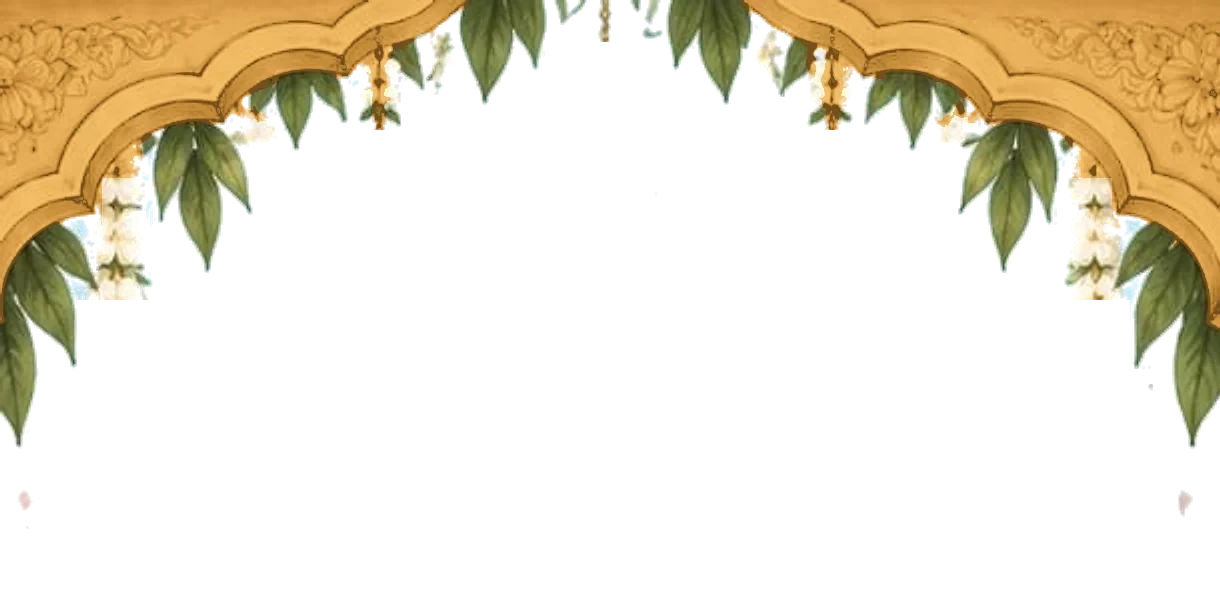
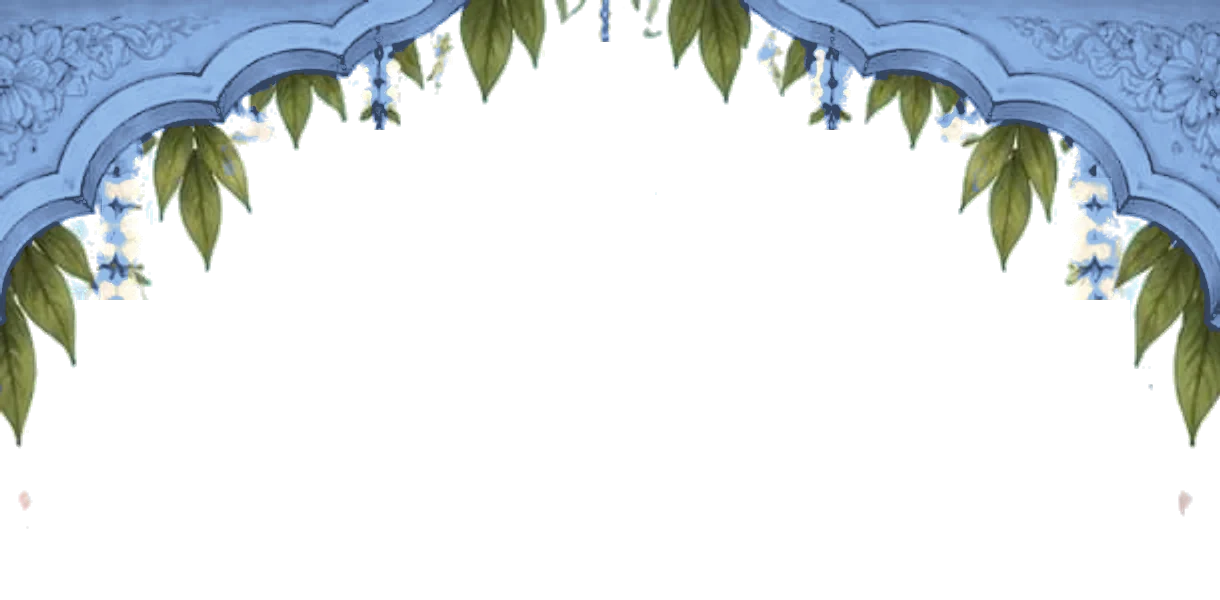
Couple: the carved arch in Mahadev's own blue
The couple section's carved arch is no longer gold: its gold is
recoloured to the blue of Mahadev's skin in the Save the Date painting.
Each gold pixel's lightness is mapped onto his skin's tones, from shadow
to highlight, so the carving keeps its depth; the leaves, jasmine and
the swaying gold bells are unchanged, and the change fades at the
edges of gold so there are no seams.

diff --git a/src/config/wedding.ts b/src/config/wedding.ts
@@ -462,8 +462,8 @@ export const wedding = {
     omSeal: "/art/om-seal.webp",
     /**
      * Section 02, made from one painting (its text and sky taken out, so the site's sky shows
-     * through): the carved arch — recoloured to the gold of Parvati's saree in the Save the Date
-     * painting — with bells and jasmine strings across the top (1220 × 600), and
+     * through): the carved arch — recoloured to Mahadev's own blue in the Save the Date painting
+     * (his skin's tones, shadow to highlight, so the carving keeps its depth) — with bells and jasmine strings across the top (1220 × 600), and
      * the scene at the foot (1220 × 1448) — palms, petals, hills, a temple by the river, a diya,
      * lotuses, and the couple offering water to the Shivling.
      */

diff --git a/src/components/sections/Couple.tsx b/src/components/sections/Couple.tsx
@@ -15,7 +15,7 @@ const TOAST_MS = 1500;
 
 /**
  * Section 02 — one screen, in the style of the couple's chosen painting, on
- * the site's own sky: a carved golden arch with gently swaying temple bells
+ * the site's own sky: a carved arch in Mahadev's blue with gently swaying temple bells
  * and jasmine strings across the top, right where the Save the Date ends; on the sky
  * below the bells, the guest's welcome — their name from the link, the
  * couple's names, the hashtag (a tap copies it), the date and the venue (a

diff --git a/README.md b/README.md
@@ -113,7 +113,7 @@ Each section has its own composition, and each hands over to the next.
 | 00 | Opening | The couple's own picture (`assets.opening`, 852 × 1846): a sunrise sky with clouds and the Himalaya, and the two hands on their own layers (cut out with the background-removal model; the sky behind them rebuilt seamlessly). Both hands start partly off the screen — Shiva's at the upper left, reaching down; the bride's at the lower right, palm up — and glide slowly toward each other (3.8s), until their fingertips all but touch; a warm gold glow between them, then it widens, a few gold motes drift outward and both hands fade together into the sky. Only once they are gone does the card rise in, as the sunrise melts away. Skip is always shown, a reload gets a quicker version, and `?opening=full` replays the full one. |
 | 01 | Save the Date | Exactly one screen (`100svh`). The card rises in piece by piece, in order of importance: "Save the Date", the names (stacked: bride, a small gold "&", groom — never cut, however long), the request, the date on one line (February · 12 · 2027) and the venue (a tap opens Google Maps directions) — 64px from the top, 12px apart, each with a soft white glow; then the painting of Mahadev blessing Maa Parvati before the snowy Himalaya, edge to edge across the foot of the screen (at least 58svh, cropped from the bottom so the crown stays in view), only its top edge fading into the sky. At the foot, on a dark-navy panel (rgba(8,24,52,.88) rising to clear): the blessing line and **View the Invitation** with a gently bobbing double arrow — a tap glides to the next section. EN / हिं switches the card to Hindi (`invitation.hindi`, remembered on the phone, shared with the switch on the couple section). Faint clouds part as the guest scrolls, the moon in Mahadev's hair glows softly, and a bell in the corner plays a soft temple dhun made in the browser — only when tapped. After 5 s of reading it glides on by itself (`invitation.autoAdvanceMs`); any touch cancels this. |
 | 01→02 | Descent | "Kailash se Mandir" (`Descent.tsx`), scrubbed by the scroll and only vertical: the Save the Date's painting, in two layers (`assets.saveTheDateLayers`), drifts up — the Himalaya slowly and a little to the left, Mahadev and Maa Parvati a little faster — and fades into mist; the blessing panel melts away; three layers of soft cloud pass across at their own speeds and a few petals fall; the couple section's arch rises 60px into place, then its scene as it comes up the screen. The sky behind is one fixed layer, so there is no line between them. On arrival the bells and the two jasmine garlands (`assets.coupleGarlands`) swing once, and the welcome comes in line by line after the arch has settled. Transform and opacity only, all inside the phone on desktop. Reduced motion: none of it — the couple section simply fades in. |
-| 02 | Couple | One screen in the style of the couple's chosen painting, on the site's own sky, starting right where the Save the Date ends (no gap): a carved arch in the gold of Parvati's saree, with jasmine strings and three temple bells that sway gently (`assets.coupleArch`, `assets.coupleBells`); on the sky below the bells, the welcome (`coupleWelcome`) — "Welcome" (स्वागतम् in Hindi), "Dear {guest}," from the link (`?guest=`, `?to=` or `?name=`, max 40 characters; without one, `guest.fallbackName`), 20px with the name in bold at 26px, "you are warmly invited" (or its Hindi), the couple's names stacked, a fine gold line, the hashtag (a tap copies it and shows "Copied"), the date on one line (12 · FEBRUARY · 2027), another gold line and the full venue as a Google Maps link — rising in one by one as the section comes into view; and at the foot (`assets.coupleScene`) palms, petals, hills, a temple by the river, a diya, lotuses and the couple offering water to the Shivling, always with at least 40px of clear sky above their heads (on a short screen they move lower). Its words follow the Save the Date's EN / हिं switch. It keeps the `#couple` id because "View the Invitation" and the auto-glide land here. |
+| 02 | Couple | One screen in the style of the couple's chosen painting, on the site's own sky, starting right where the Save the Date ends (no gap): a carved arch in Mahadev's own blue (the tones of his skin in the Save the Date painting), with jasmine strings and three temple bells that sway gently (`assets.coupleArch`, `assets.coupleBells`); on the sky below the bells, the welcome (`coupleWelcome`) — "Welcome" (स्वागतम् in Hindi), "Dear {guest}," from the link (`?guest=`, `?to=` or `?name=`, max 40 characters; without one, `guest.fallbackName`), 20px with the name in bold at 26px, "you are warmly invited" (or its Hindi), the couple's names stacked, a fine gold line, the hashtag (a tap copies it and shows "Copied"), the date on one line (12 · FEBRUARY · 2027), another gold line and the full venue as a Google Maps link — rising in one by one as the section comes into view; and at the foot (`assets.coupleScene`) palms, petals, hills, a temple by the river, a diya, lotuses and the couple offering water to the Shivling, always with at least 40px of clear sky above their heads (on a short screen they move lower). Its words follow the Save the Date's EN / हिं switch. It keeps the `#couple` id because "View the Invitation" and the auto-glide land here. |
 | — | Between sections | A ripple of the Ganga (`SectionSeparator`, 72px, edge to edge): a fine wavy line in pale blue and gold with a fainter one behind, on a soft band of the site's mist so each section flows into the next; on it a small floating ornament — lotus (its petals opening and closing, just), diya (its flame flickering) or shankh, by turn — bobbing gently. Once in view the line draws from left to right (0.8s) and the ornament rises in after it; as the guest scrolls the two lines drift a little in opposite ways (±26px / ∓18px). None between the Save the Date and the couple section. Section paddings are small (`--section-gap` 1.25rem) so the ripple takes the place of empty space. Reduced motion: still. |
 | 03 | Countdown | Above: शुभ मुहूर्त, "Countdown Begins", a fine gold line and the date — the eyebrow and the date in a deep antique gold (#7A561C), the date at 14px, to read on the pale sky in sunlight. Then the couple's wreath (`assets.countdownWreath`), made over for Shiv–Parvati: its travel and café icons replaced with watercolour icons in its own palette — trishul, damru, bilva patra and diya on the left, ghanti, kalash, shankh and a rudraksha mala on the right, each level with its pair — and the ring closed beneath by a leafy vine running behind the mountain and the joined hands (made by `scratchpad/wreath/compose.cjs`: old icons taken out, the vines kept). Inside it, the wedding's month as a calendar (made from the date), raised so the 28th clears the mountain's peak by 19px+; on the wedding day the watercolour lotus blooms under a white 12, clear of the 11th and 13th, breathing with a soft gold glow (2.6s). The clouds part as it appears. Under it, "Hamare vivah mein baaki hain" in the section's italic, then the row: the days large in navy turning gold, hours, minutes and seconds a little smaller; labels in English over Hindi (DAYS / दिन …), tabular digits. The first time it is seen the numbers count up from zero (1s); then each digit rolls on its own as it changes (300ms), and a small gold bead beats by the seconds. Always to 12 February 2027, 7:30 PM at the venue (IST), whatever the guest's time zone; on the day "Aaj Hamara Vivah Hai", afterwards "Shubh Vivah" — "Thank you for blessing us." EN / हिं switches its words. Reduced motion: no count-up, no roll, nothing pulses — fades only. |
 | 05 | Wedding Events | "Wedding Events" and its quote above the couple's gold temple arch (`assets.eventsArch`), its lotus, banana leaves, music and elephant all still. Inside the arch, one ceremony at a time (`events.list`: name, date, time, venue, dress code, the couple dressed for it — cut-outs in `public/art/events/` — and an optional artist credit); all sized to the arch's own width, so it fits the same on every phone. The venue is a small ivory button with a fine gold edge (pin, place, a small arrow out): a tap opens the place in Google Maps (the main venue's own `venue.mapsUrl` when set). To the next: a tap on the arch, a swipe left, or › under it (‹ or a swipe right for the one before; the arrow keys too); after the last, the first. Between the arrows, gold progress marks (the one shown a short gold bar; a tap goes straight to one), and under them "Tap the arch frame to see the events" (`events.hint`). The change (0.8s, ease-in-out; taps meanwhile are ignored): the ceremony shown fades out, its picture easing down to 97% (0.3s); a small gold ornament — a lotus bud between two tendrils — glimmers where the couple stood; the next picture fades in from 96% to 100% (0.45s) and its words rise softly in just after; the marks move at once. The words never move up or down. Reduced motion: a short crossfade, no ornament. The dates, times, venues and dress codes are SAMPLES. |
